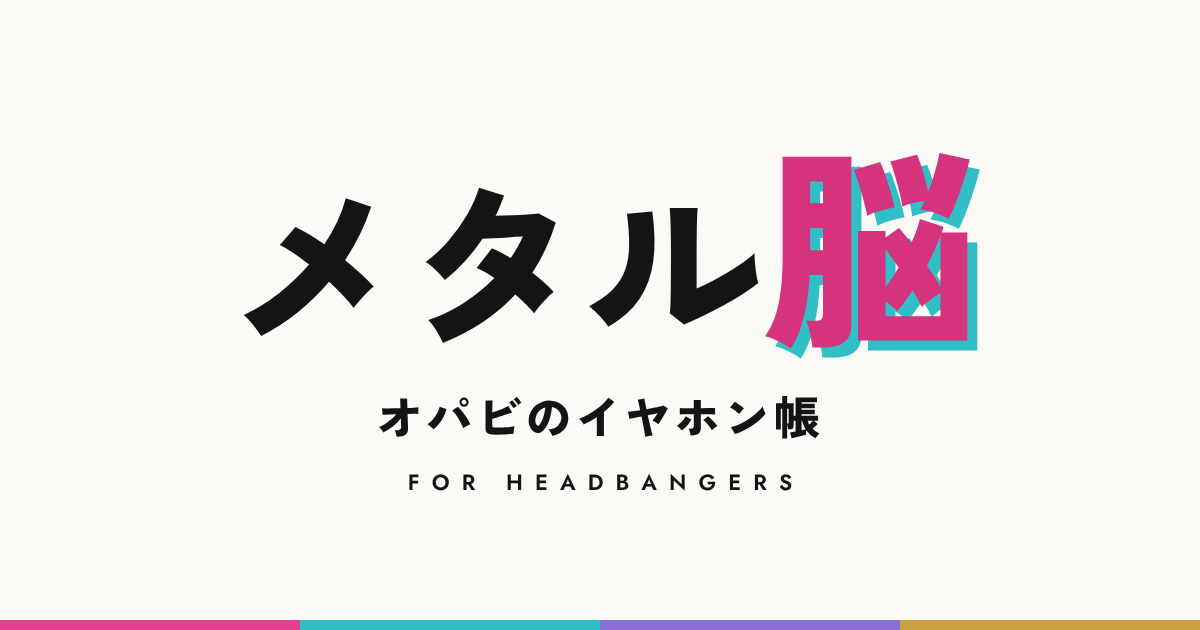
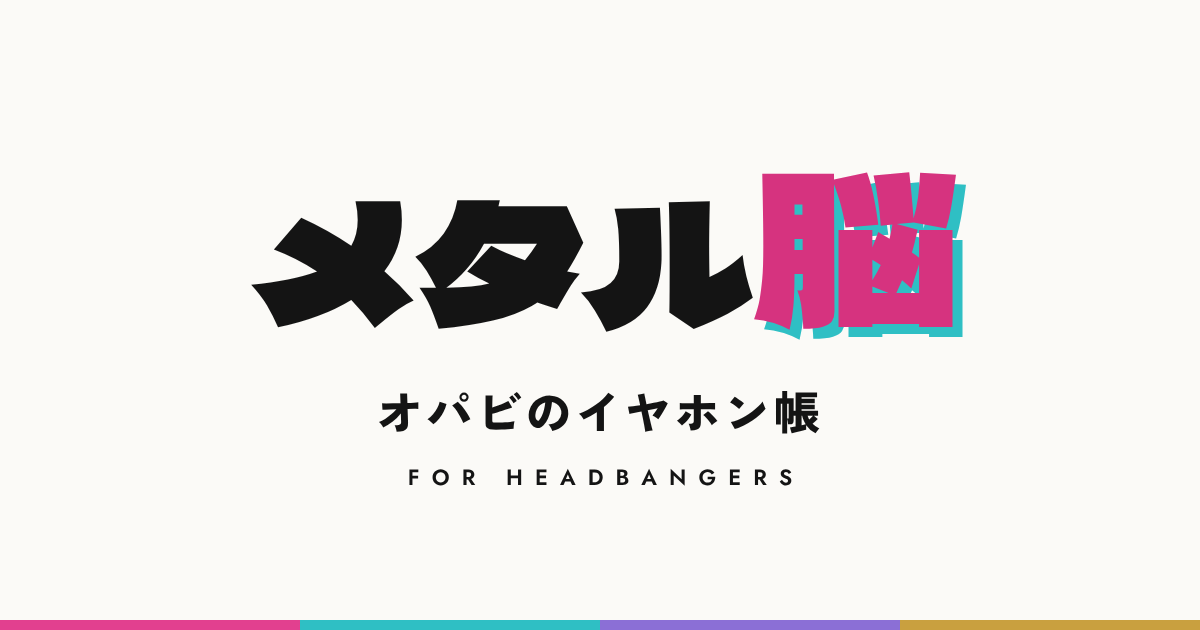
OGP: title in Dela Gothic One
Claude-Session: https://claude.ai/code/session_01MYgqpeVncj9Z7P1gM58KEr

Changed region(s): [[0.185, 0.2413, 0.8325, 0.573], [0.3083, 0.6032, 0.6783, 0.6937], [0.3392, 0.7238, 0.6783, 0.7841]]

diff --git a/preview/tools/ogp.html b/preview/tools/ogp.html
@@ -1,10 +1,10 @@
 <!-- OGP画像（1200×630）の元データ。ブラウザで 1200×630 の表示サイズにして撮影し、preview/ogp.png に保存する -->
 <!doctype html><html lang="ja"><head><meta charset="utf-8">
-<link href="https://fonts.googleapis.com/css2?family=Jost:wght@600&family=Zen+Kaku+Gothic+New:wght@900&display=swap" rel="stylesheet">
+<link href="https://fonts.googleapis.com/css2?family=Dela+Gothic+One&family=Jost:wght@600&family=Zen+Kaku+Gothic+New:wght@900&display=swap" rel="stylesheet">
 <style>
 *{box-sizing:border-box;margin:0}
 body{width:1200px;height:630px;background:#fbfaf7;color:#141414;font-family:'Zen Kaku Gothic New',sans-serif;overflow:hidden;display:grid;place-content:center;text-align:center}
-h1{font-weight:900;font-size:176px;line-height:1;letter-spacing:.02em;white-space:nowrap;transform:translateX(5px)}
+h1{font-family:'Dela Gothic One',sans-serif;font-weight:400;font-size:168px;line-height:1;white-space:nowrap;transform:translateX(5px)}
 h1 span{color:#d6337f;font-size:1.22em;text-shadow:10px 10px 0 #2fbfc4}
 .sub{margin-top:36px;font-weight:900;font-size:46px;letter-spacing:.08em}
 .tag{margin-top:18px;font-family:Jost,sans-serif;font-weight:600;font-size:22px;letter-spacing:.55em;padding-left:.55em}
